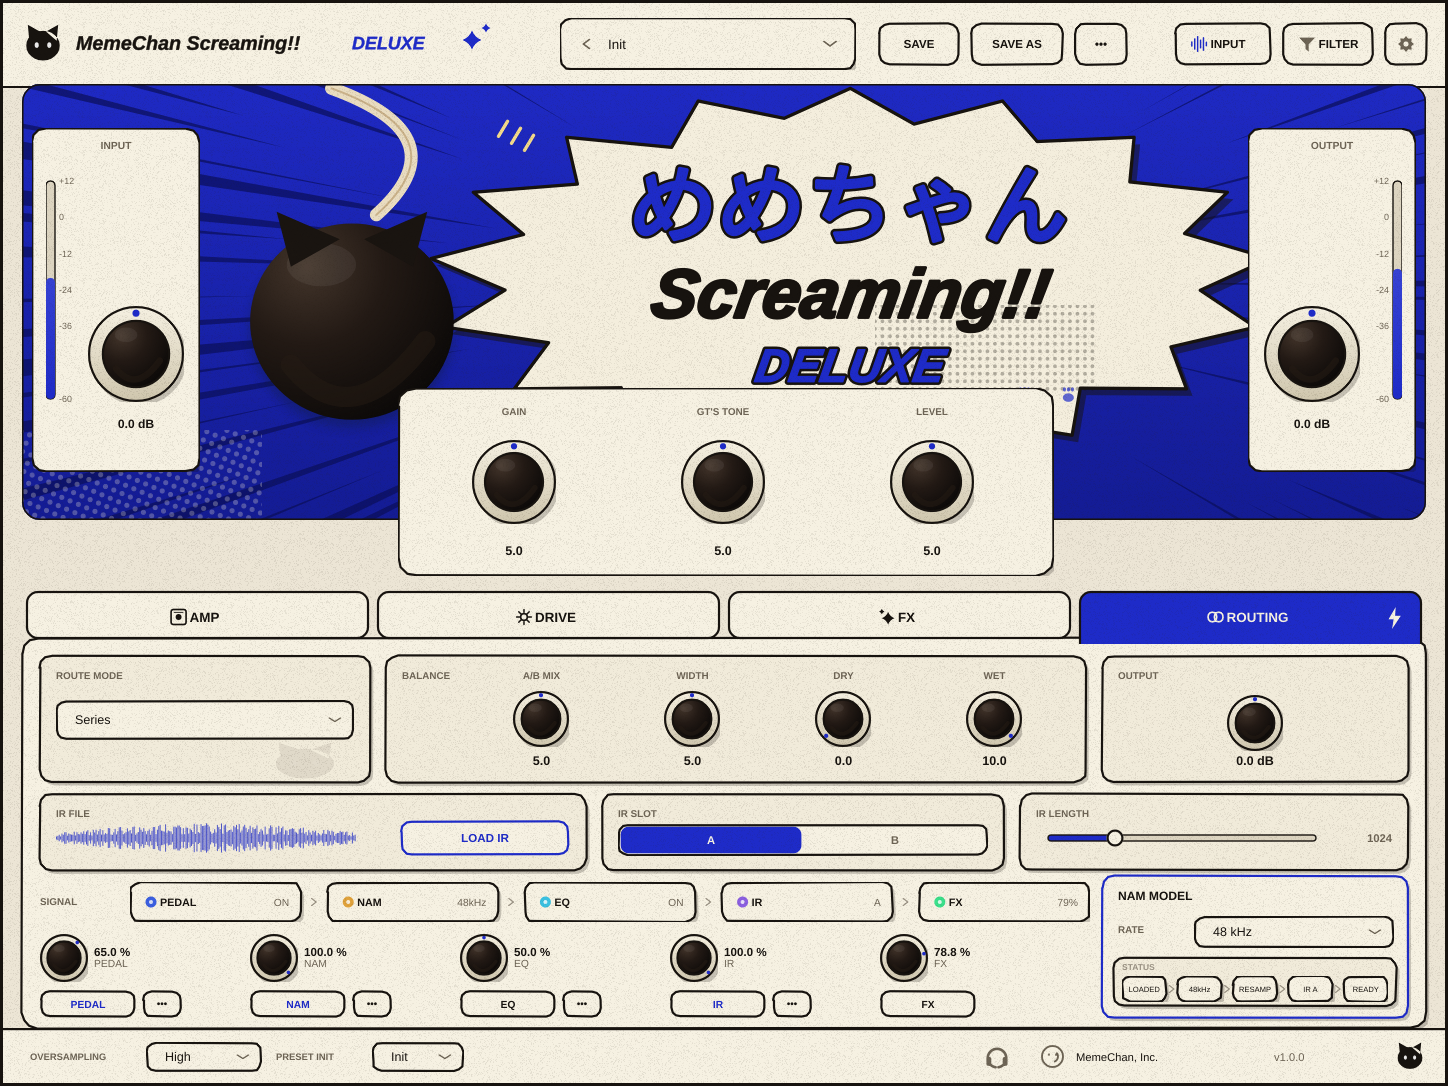
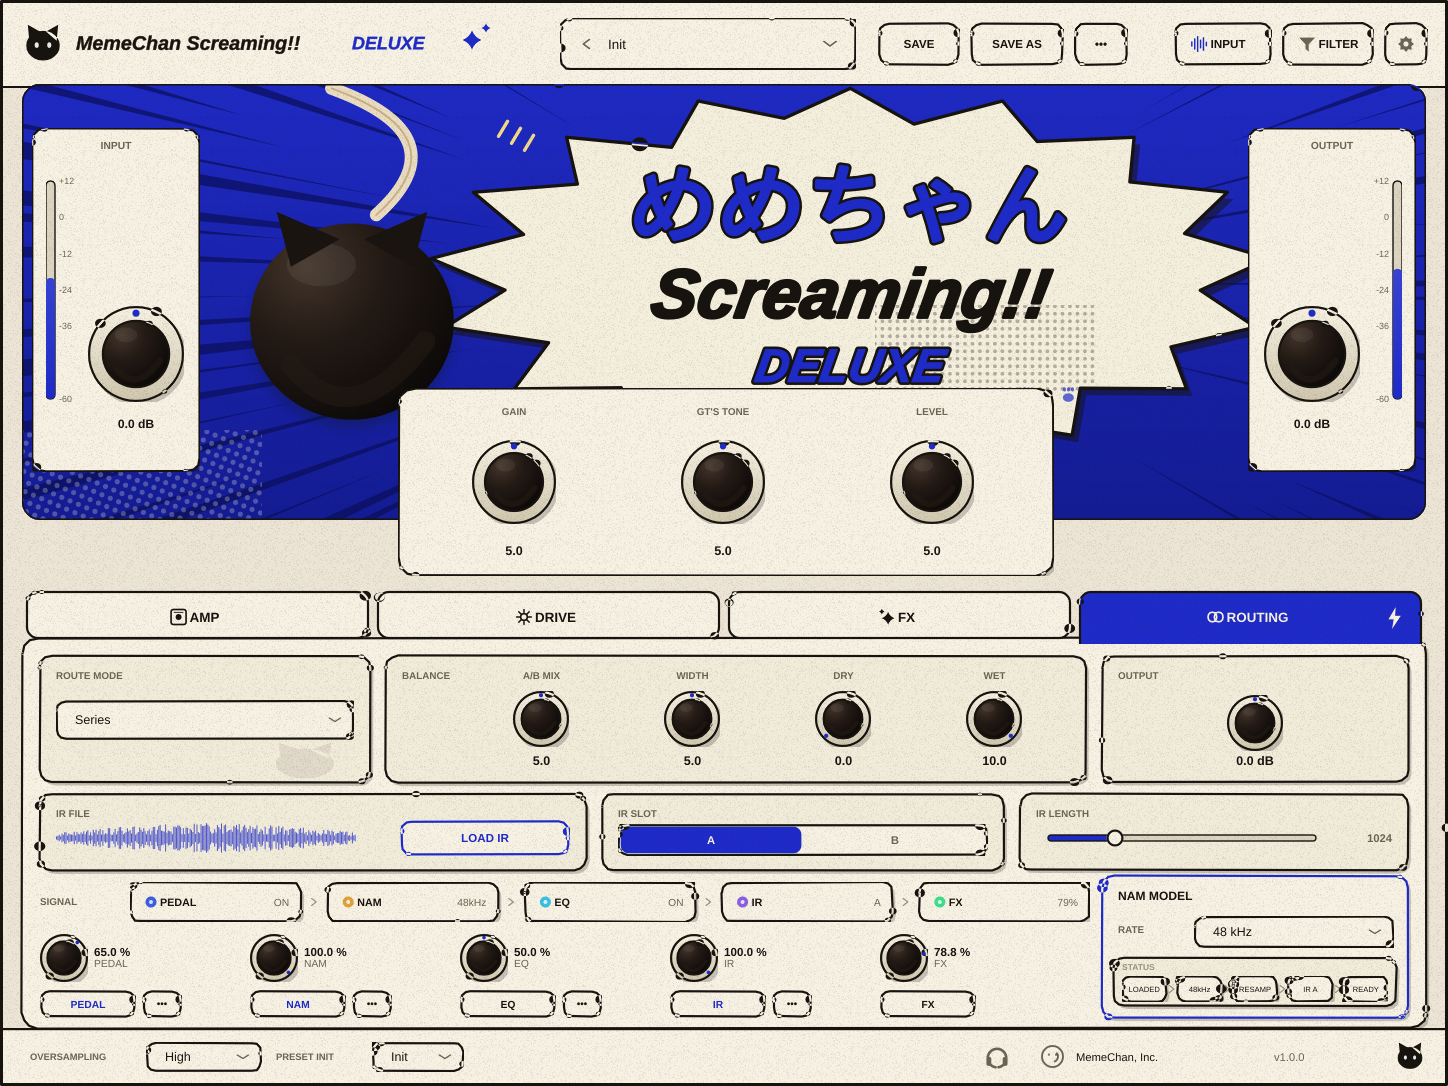
MemeChanUI: Break up the comic skin's outlines like dry ink
strokeInked() strokes a path, then erodes it by punching holes centred on
the line. Filling even-odd means two overlapping holes fill back in, which
leaves the flecks a half-inked line keeps in its gaps.

Strength is one number, theme::setInkBreakup(); shapes can override it, and
the knob rings do since a short tight curve needs far less erosion than a
panel edge to still read.

Panels, buttons, combo boxes, segmented controls, tab plates, knob rims,
the banner outline and the window frame all go through it.

Claude-Session: https://claude.ai/code/session_0138MG23CpU4iP5vUzEUv7tL

diff --git a/MemeChanUI/Source/Widgets.cpp b/MemeChanUI/Source/Widgets.cpp
@@ -24,9 +24,8 @@ void MemeChanLookAndFeel::drawComboBox (juce::Graphics& g, int width, int height
     g.setColour (box.findColour (juce::ComboBox::backgroundColourId));
     g.fillPath (p);
 
-    g.setColour (box.findColour (juce::ComboBox::outlineColourId));
-    g.strokePath (p, juce::PathStrokeType (strokeWidth(), juce::PathStrokeType::curved,
-                                           juce::PathStrokeType::rounded));
+    strokeInked (g, p, box.findColour (juce::ComboBox::outlineColourId), strokeWidth(),
+                 width * 17 + height);
 
     auto arrow = juce::Rectangle<float> (11.0f, 7.0f)
                      .withCentre ({ b.getRight() - 18.0f, b.getCentreY() });
@@ -119,15 +118,21 @@ void PawKnob::paint (juce::Graphics& g)
                          colours::knobRimLo, area.getCentreX(), area.getBottom(), false });
     g.fillEllipse (area);
 
-    g.setColour (inked ? colours::cardBorder : juce::Colour (0xffc3bcac));
-    g.drawEllipse (area.reduced (strokeWidth() * 0.5f), strokeWidth());
+    juce::Path rim;
+    rim.addEllipse (area.reduced (strokeWidth() * 0.5f));
+    strokeInked (g, rim, inked ? colours::cardBorder : juce::Colour (0xffc3bcac),
+                 strokeWidth(), juce::roundToInt (area.getX() * 7.0f + d) + 5, 0.16f);
 
     // photographic face (placeholder artwork)
     auto face = area.reduced (d * 0.155f);
     drawCurledCat (g, face);
 
-    g.setColour (inked ? colours::cardBorder : juce::Colour (0x40000000));
-    g.drawEllipse (face, inked ? strokeWidth() : 1.0f);
+    // the face ring is short and tight, so it takes much less erosion
+    juce::Path faceRing;
+    faceRing.addEllipse (face);
+    strokeInked (g, faceRing, inked ? colours::cardBorder : juce::Colour (0x40000000),
+                 inked ? strokeWidth() : 1.0f,
+                 juce::roundToInt (area.getY() * 9.0f + d) + 61, 0.10f);
 
     // position indicator
     const auto rp = getRotaryParameters();
@@ -297,11 +302,8 @@ void FlatButton::paintButton (juce::Graphics& g, bool highlighted, bool)
     }
 
     if (! border.isTransparent())
-    {
-        g.setColour (border);
-        g.strokePath (p, juce::PathStrokeType (strokeWidth(), juce::PathStrokeType::curved,
-                                               juce::PathStrokeType::rounded));
-    }
+        strokeInked (g, p, border, strokeWidth(),
+                     juce::roundToInt (b.getX() * 11.0f + b.getY() * 3.0f) + 41);
 
     const bool hasText = getButtonText().isNotEmpty();
     auto content = b.reduced (hasText ? 12.0f : 0.0f, 0.0f);
@@ -358,9 +360,7 @@ void SegmentedControl::paint (juce::Graphics& g)
         g.drawText (items[i], seg, juce::Justification::centred);
     }
 
-    g.setColour (colours::cardBorder);
-    g.strokePath (outer, juce::PathStrokeType (strokeWidth(), juce::PathStrokeType::curved,
-                                               juce::PathStrokeType::rounded));
+    strokeInked (g, outer, colours::cardBorder, strokeWidth(), getWidth() * 13 + 7);
 }
 
 void SegmentedControl::mouseDown (const juce::MouseEvent& e)
@@ -406,9 +406,7 @@ void TabStrip::paint (juce::Graphics& g)
 
             g.setColour (on ? colours::accent : colours::cardBg);
             g.fillPath (p);
-            g.setColour (colours::cardBorder);
-            g.strokePath (p, juce::PathStrokeType (strokeWidth(), juce::PathStrokeType::curved,
-                                                   juce::PathStrokeType::rounded));
+            strokeInked (g, p, colours::cardBorder, strokeWidth(), (int) i * 137 + 23);
 
             if (on)
             {

diff --git a/MemeChanUI/Source/Theme.cpp b/MemeChanUI/Source/Theme.cpp
@@ -149,6 +149,54 @@ namespace theme
         return out;
     }
 
+    static float breakupAmount = 0.26f;
+
+    float inkBreakup() noexcept { return activeSkin == Skin::comic ? breakupAmount : 0.0f; }
+    void setInkBreakup (float v) noexcept { breakupAmount = juce::jlimit (0.0f, 0.6f, v); }
+
+    void strokeInked (juce::Graphics& g, const juce::Path& source, juce::Colour colour,
+                      float width, int seed, float amount)
+    {
+        const auto breakup = activeSkin == Skin::comic
+                               ? (amount < 0.0f ? breakupAmount : amount)
+                               : 0.0f;
+
+        g.setColour (colour);
+
+        if (breakup <= 0.0f)
+        {
+            g.strokePath (source, juce::PathStrokeType (width, juce::PathStrokeType::curved,
+                                                        juce::PathStrokeType::rounded));
+            return;
+        }
+
+        juce::Path out;
+        juce::PathStrokeType (width, juce::PathStrokeType::curved,
+                              juce::PathStrokeType::rounded).createStrokedPath (out, source);
+
+        // Erode the line by punching holes centred on it. Even-odd filling means
+        // two overlapping holes fill back in, which leaves the flecks of ink a
+        // half-inked line keeps in its gaps.
+        juce::Random rng (seed);
+        juce::PathFlatteningIterator it (source, {}, 10.0f);
+
+        while (it.next())
+        {
+            if (rng.nextFloat() > breakup)
+                continue;
+
+            const auto t = rng.nextFloat();
+            const auto x = it.x1 + (it.x2 - it.x1) * t;
+            const auto y = it.y1 + (it.y2 - it.y1) * t;
+            const auto r = width * (0.9f + rng.nextFloat() * 1.7f);
+
+            out.addEllipse (x - r, y - r * 0.85f, r * 2.0f, r * 1.7f);
+        }
+
+        out.setUsingNonZeroWinding (false);
+        g.fillPath (out);
+    }
+
     void halftone (juce::Graphics& g, juce::Rectangle<float> area, juce::Colour colour,
                    float spacing, float radius, float angleRadians)
     {
@@ -240,9 +288,7 @@ namespace theme
         g.setColour (fill);
         g.fillPath (p);
 
-        g.setColour (border);
-        g.strokePath (p, juce::PathStrokeType (strokeWidth(), juce::PathStrokeType::curved,
-                                               juce::PathStrokeType::rounded));
+        strokeInked (g, p, border, strokeWidth(), seed + 991);
     }
 
     //==========================================================================

diff --git a/MemeChanUI/Source/Theme.h b/MemeChanUI/Source/Theme.h
@@ -51,6 +51,23 @@ namespace theme
     juce::Path roughRoundedRect (juce::Rectangle<float>, float corner,
                                  float jitter, int seed);
 
+    /** How much of an outline the press failed to lay down, 0 (solid) to about
+        0.5 (heavily broken). Ignored by the modern skin. */
+    float inkBreakup() noexcept;
+    void setInkBreakup (float) noexcept;
+
+    /** Strokes a path as dry, broken ink: the line is eroded along its length
+        and leaves the odd speck behind in the gaps.
+
+        The result is pure geometry, so it stays sharp at any zoom - but it is
+        rebuilt on every call, so components using it should be buffered
+        (Component::setBufferedToImage) rather than repainted per frame.
+
+        Pass `amount` to override the global breakup for one shape - small
+        controls need less erosion than a full-width panel to read cleanly. */
+    void strokeInked (juce::Graphics&, const juce::Path& source, juce::Colour,
+                      float width, int seed, float amount = -1.0f);
+
     /** Screentone. `spacing` is dot pitch, `radius` dot size. */
     void halftone (juce::Graphics&, juce::Rectangle<float> area, juce::Colour,
                    float spacing, float radius, float angleRadians = 0.0f);

diff --git a/MemeChanUI/Source/HeroBanner.cpp b/MemeChanUI/Source/HeroBanner.cpp
@@ -34,8 +34,7 @@ void HeroBanner::paint (juce::Graphics& g)
         halftone (g, b.withTop (b.getBottom() - 90.0f).withWidth (240.0f),
                   colours::heroPaper.withAlpha (0.28f), 9.0f, 2.6f, 0.4f);
 
-        g.setColour (colours::cardBorder);
-        g.strokePath (clip, juce::PathStrokeType (strokeWidth() * 1.4f));
+        strokeInked (g, clip, colours::cardBorder, strokeWidth() * 1.4f, 7717);
     }
     else
     {
@@ -117,10 +116,9 @@ void HeroBanner::paintBurst (juce::Graphics& g, juce::Rectangle<float> area) con
     g.setColour (colours::heroPaper);
     g.fillPath (burst);
 
-    g.setColour (inked ? colours::cardBorder : juce::Colour (0xff1d2430).withAlpha (0.85f));
-    g.strokePath (burst, juce::PathStrokeType (inked ? strokeWidth() * 1.5f : 2.2f,
-                                               juce::PathStrokeType::curved,
-                                               juce::PathStrokeType::rounded));
+    strokeInked (g, burst,
+                 inked ? colours::cardBorder : juce::Colour (0xff1d2430).withAlpha (0.85f),
+                 inked ? strokeWidth() * 1.5f : 2.2f, 3301);
 
     // screentone in the lower right of the panel
     if (inked)

diff --git a/MemeChanUI/Source/MemeChanEditor.cpp b/MemeChanUI/Source/MemeChanEditor.cpp
@@ -310,8 +310,9 @@ void MemeChanEditor::paintOverChildren (juce::Graphics& g)
 
     if (currentSkin() == Skin::comic)
     {
-        g.setColour (colours::cardBorder);
-        g.drawRect (full, 3.0f);
+        juce::Path frame;
+        frame.addRectangle (full.reduced (1.5f));
+        strokeInked (g, frame, colours::cardBorder, 3.0f, 20260728);
     }
 }
 

diff --git a/MemeChanUI/README.md b/MemeChanUI/README.md
@@ -32,6 +32,22 @@ Pages lay themselves out in design units and the editor applies the window scale
 via `setTransform`, so page code never deals with scaling. Adding a tab is a
 `create*Page()` function plus an entry in the `TabStrip`.
 
+## Skins
+
+`theme::setSkin()` swaps the whole palette. Widgets read `colours::*`,
+`theme::strokeWidth()` and `theme::strokeInked()` rather than branching on the
+skin themselves, so one call re-skins every page.
+
+The comic skin builds its look from `roughRoundedRect()` (hand-drawn wobble),
+`strokeInked()` (dry, broken outlines), `halftone()` (screentone) and
+`paperGrain()` (tiled stock). Erosion strength is one number —
+`theme::setInkBreakup()`, 0 for solid, ~0.5 for heavily broken.
+
+`strokeInked()` rebuilds its geometry on every call. That is fine for static
+chrome but should not run per frame, so anything animating (meters, waveforms)
+belongs in its own component, and panels that only redraw on resize should set
+`setBufferedToImage (true)`.
+
 ## What is a placeholder
 
 * **All artwork.** The cat, the comic burst, the speed lines and the knob faces
